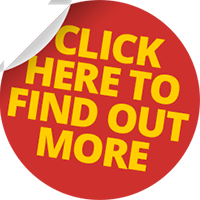
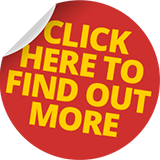
It's now LIVE!
http://extras.thesun.co.uk/public/get_kids_reading/

diff --git a/index.html b/index.html
@@ -22,7 +22,7 @@
 	<body>
 		<div class="supersplash">
 			<div class="main">
-				<div class="cta"><a href="http://www.thesun.co.uk/sol/homepage/features/getkidsreading/5927365/Get-kids-reading.html"><img src="images/cta.png" alt=""></a></div>
+				<div class="cta"><a href="http://www.thesun.co.uk/sol/homepage/features/getkidsreading/5927365/Get-kids-reading.html" target="_parent"><img src="images/cta.png" alt=""></a></div>
 				<ul id="bk-list" class="bk-list clearfix">
 
 					<li>
@@ -43,7 +43,7 @@
 								<div class="bk-content">
 									<a class="close" href="#">x</a>
 									<p>THE problem with being thought of as a bit of a daredevil was having to live up to my reputation. That, I discovered, can land you in all sorts of trouble.</p>
-									<a href="http://www.thesun.co.uk/sol/homepage/features/getkidsreading/5928331/Exclusive-Michael-Morpurgo-short-story-for-you-to-read-to-your-child-tonight.html">Read more</a>
+									<a href="http://www.thesun.co.uk/sol/homepage/features/getkidsreading/5928331/Exclusive-Michael-Morpurgo-short-story-for-you-to-read-to-your-child-tonight.html" target="_parent">Read more</a>
 								</div>
 								
 							</div>
@@ -76,7 +76,7 @@
 									<a class="close" href="#">x</a>
 									<p>Every morning before school, Alfie Griffith would get up super-early. But before he knew it, he’d be running late.“Now remember, Winnie, your social worker, will pick you up from the school gates at one-thirty today to take you to the dentist,” said Alfie’s dad as he was leaving.</p>
 
-									<a href="http://www.thesun.co.uk/sol/homepage/features/getkidsreading/5907159/Exclusive-David-Walliams-short-story-Read-A-Visit-to-the-Demon-Dentist-to-your-kids.html">Read more</a>
+									<a href="http://www.thesun.co.uk/sol/homepage/features/getkidsreading/5907159/Exclusive-David-Walliams-short-story-Read-A-Visit-to-the-Demon-Dentist-to-your-kids.html" target="_parent">Read more</a>
 								</div>
 							</div>
 							<div class="bk-back">
@@ -106,7 +106,7 @@
 									<a class="close" href="#">x</a>
 									<p>PUNCHY-LAD’S first meeting with the SuperTeens did not go well. He’d had to iron his costume so he was late to the diner. The SuperTeens were already there. Transparo, the Invisible Boy, was the first to see him.</p>
 
-									<a href="http://www.thesun.co.uk/sol/homepage/features/getkidsreading/5948813/Exclusive-Derek-Landy-short-story-free-for-Sun-readers-as-part-of-Get-Kids-Reading-campaign.html">Read more</a>
+									<a href="http://www.thesun.co.uk/sol/homepage/features/getkidsreading/5948813/Exclusive-Derek-Landy-short-story-free-for-Sun-readers-as-part-of-Get-Kids-Reading-campaign.html" target="_parent">Read more</a>
 								</div>
 
 								
@@ -141,7 +141,7 @@
 									<a class="close" href="#">x</a>
 									<p>Barry looked at the man and woman in bright blue Lycra bodysuits who had appeared so quickly outside the Parent Agency. He didn’t know how it was possible for them to have got there so fast.</p>
 
-									<a href="http://www.thesun.co.uk/sol/homepage/features/getkidsreading/5968635/Comic-David-Baddiel-shares-hilarious-free-tale-The-Parent-Agency-for-Sun-readers-to-read-to-your-child-at-bedtime.html">Read more</a>
+									<a href="http://www.thesun.co.uk/sol/homepage/features/getkidsreading/5968635/Comic-David-Baddiel-shares-hilarious-free-tale-The-Parent-Agency-for-Sun-readers-to-read-to-your-child-at-bedtime.html" target="_parent">Read more</a>
 								</div>
 
 								
@@ -172,9 +172,9 @@
 								</div>
 								<div class="bk-content">
 									<a class="close" href="#">x</a>
-									<p>Trevor and George ran along the corridor, ‘We’re going to be late!’ Trevor puffed, trying to tuck in his shirt while simultaneously smoothing down his hair. ‘Well hopefully so will Professor McGrath.’ The boys came to a halt outside the science lab and scanned their thumbs to gain entry.</p>
+									<p>Trevor and George ran along the corridor, ‘We’re going to be late!’ Trevor puffed, trying to tuck in his shirt while simultaneously smoothing down his hair. ‘Well hopefully so will Professor McGrath.’</p>
 
-									<a href="http://img.thesun.co.uk/aidemitlum/archive/02101/The-Emerald-Planet_2101356a.pdf" target="_blank">Read more</a>
+									<a href="http://img.thesun.co.uk/aidemitlum/archive/02101/The-Emerald-Planet_2101356a.pdf" target="_blank" target="_parent">Read more</a>
 								</div>
 
 								
@@ -207,7 +207,7 @@
 									<a class="close" href="#">x</a>
 									<p>PUNCHY-LAD’S first meeting with the SuperTeens did not go well. He’d had to iron his costume so he was late to the diner. The SuperTeens were already there. Transparo, the Invisible Boy, was the first to see him.</p>
 
-									<a href="http://www.thesun.co.uk/sol/homepage/features/getkidsreading/6009499/TV-host-Susanna-Reid-shares-FREE-tale-Jacksons-Day-Trip-for-Sun-members-to-read-to-your-child-at-bedtime.html">Read more</a>
+									<a href="http://www.thesun.co.uk/sol/homepage/features/getkidsreading/6009499/TV-host-Susanna-Reid-shares-FREE-tale-Jacksons-Day-Trip-for-Sun-members-to-read-to-your-child-at-bedtime.html" target="_parent">Read more</a>
 								</div>
 
 								
@@ -226,29 +226,6 @@
 
 					<!-- COMING SOON BELOW -->
 					
-					<li>
-						<div class="bk-book book-7">
-							<div class="bk-front">
-								<div class="bk-cover"></div>
-								<div class="bk-cover-back"></div>
-							</div>
-							<div class="bk-page">
-								<div class="bk-content bk-content-current">
-									<a class="close" href="#">x</a>
-									<h1>Coming soon</h1>
-								</div>
-								
-								
-							</div>
-							<div class="bk-back"></div>
-							<div class="bk-right"></div>
-							<div class="bk-left">
-								<img src="images/00-spine-coming-soon.png" alt="">
-							</div>
-							<div class="bk-top"></div>
-							<div class="bk-bottom"></div>
-						</div>
-					</li>
 
 					<li>
 						<div class="bk-book book-8">

diff --git a/css/component2.css b/css/component2.css
@@ -19,11 +19,11 @@
 .cta {
 	position: relative;
 	z-index: 100;
-	width: 200px;
-	height: 200px;
+	width: 160px;
+	height: 160px;
 	float: right;
-	right: 10px;
-	top: 340px;
+	right: 20px;
+	top: 370px;
 	border-radius: 50%;
 	box-shadow: 0 0 20px rgba(0,0,0,.4)
 	-moz-transition: all .2s ease-out;
@@ -40,16 +40,17 @@
 .bk-list {
 	list-style: none;
 	position: relative;
-	/*width: 288px;*/ /* 13 books * 40px + 13 books * margin (1px) */
-	width: 556px; 
+	width: 522px; /* 13 books * 40px + 13 books * margin (1px) */
 	margin: 0;
-	padding: 114px 0 0 90px;
+	padding: 114px 0 0 32px;
 	-webkit-perspective: 1800px;
 	-moz-perspective: 1800px;
 	perspective: 1800px;
 	-webkit-perspective-origin: 50% 15%;
 	-moz-perspective-origin: 50% 15%;
 	perspective-origin: 50% 15%;
+	position: relative;
+	left: 77px;
 }
 
 .bk-list li {
